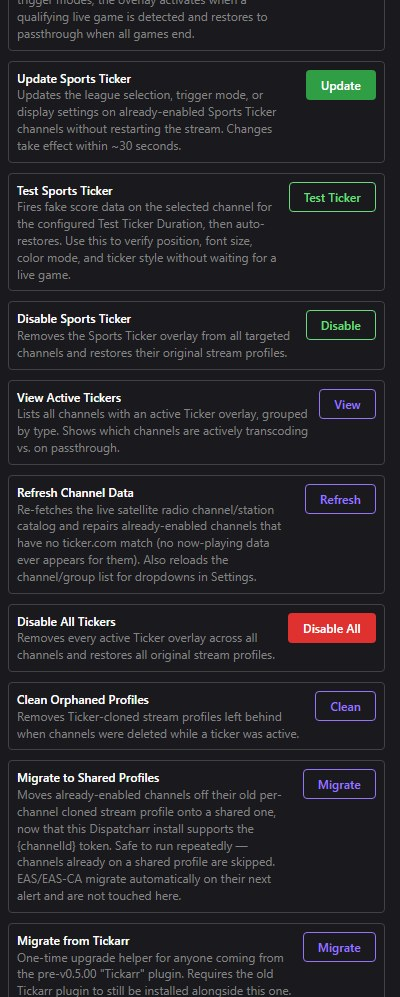
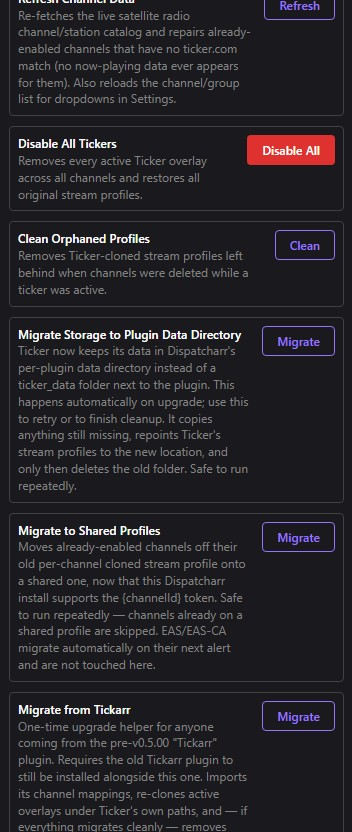
docs: document data_dir storage, one-time restart after update, Migrate Storage action; refresh screenshots
- README/USERGUIDE/FAQ: new 'Updating' and 'Where Ticker keeps its data' sections; the 'no restart needed' passages now note the one exception (0.6.0 -> 0.6.01+)
- USERGUIDE actions table + image alt text: Migrate Storage to Plugin Data Directory
- Recaptured plugin-page.jpg (v0.6.01), actions-manage.jpg (new action card) and shared-profile-detail.jpg (textfile paths now under /data/plugins/_data/ticker)

diff --git a/docs/USERGUIDE.md b/docs/USERGUIDE.md
@@ -28,6 +28,25 @@ Ticker is a plugin for [Dispatcharr](https://github.com/Dispatcharr/Dispatcharr)
 3. Enable the plugin. Dispatcharr loads new plugin code as soon as it is installed or updated, so no restart is needed.
 4. Open the Ticker plugin page and continue with the setup section below for the overlay type you want.
 
+### Updating Ticker
+
+Go to **Plugins → My Plugins → Check for Updates**, then click **Update** on Ticker. Dispatcharr loads the new code as soon as the update finishes, so a restart is normally not needed.
+
+**Exception — updating from 0.6.0 (or earlier) to 0.6.01 or later.** Starting with 0.6.01, Ticker keeps its data in Dispatcharr's per-plugin data directory (see [Where Ticker keeps its data](#where-ticker-keeps-its-data)). Ticker moves your existing data across automatically the first time the new version starts, and channels that already have an overlay keep working while it does. The older version's background thread keeps running until Dispatcharr is restarted, so **restart Dispatcharr once after this update** to finish the move. When it comes back up, Ticker repoints its stream profiles to the new location; a channel that is being watched at that moment restarts once, the same brief restart Ticker already does whenever it changes a channel's stream profile.
+
+### Where Ticker keeps its data
+
+Ticker stores your channel configuration, its caches and the small text files that FFmpeg reads for each overlay in Dispatcharr's **per-plugin data directory**. For a normal install from **Find Plugins** that is `/data/plugins/_data/ticker/`. Dispatcharr keeps this directory when Ticker is updated, so it survives updates.
+
+Before 0.6.01 this data lived in a `ticker_data` folder next to the plugin (`/data/plugins/ticker_data/`). When 0.6.01 first starts it:
+
+1. **Copies** everything from the old folder into the new data directory. Nothing is overwritten and nothing is deleted at this point.
+2. Replaces the old folder with a **link** to the new one (the original is kept as `ticker_data.premigration`), so anything still using the old path keeps working until you restart Dispatcharr.
+3. After the restart, **repoints** Ticker's stream profiles (the `textfile=` paths inside them) to the new location.
+
+You don't need to do anything for this beyond restarting Dispatcharr once. If you want to re-run or clean up the move, use **Actions → Migrate Storage to Plugin Data Directory**. It copies anything still missing, repoints any stream profile that still uses the old path, checks that nothing refers to the old location any more, and only then deletes the old folder (and the link and `.premigration` backup). If a check fails it leaves the old folder alone and tells you why.
+
+> Installs done with **Install Plugin** (uploading a ZIP) rather than from Find Plugins get a data directory named after the plugin folder (for example `_data/ticker-0_6_01`), so a ZIP install of a newer version starts in a new directory. Ticker automatically carries the data over from the previous version's directory.
 
 ### Using the Ticker page
 
@@ -657,7 +676,7 @@ Actions are listed in the left column of the Ticker page in this order: **Now Pl
 <table>
 <tr>
 <td><img src="screenshots/plugin-page.jpg" alt="The Ticker plugin page: actions on the left, collapsible settings sections on the right" width="420"></td>
-<td><img src="screenshots/actions-manage.jpg" alt="Manage actions, including Migrate to Shared Profiles and Check Stream Profile Capabilities" width="420"></td>
+<td><img src="screenshots/actions-manage.jpg" alt="Manage actions, including Migrate Storage, Migrate to Shared Profiles and Check Stream Profile Capabilities" width="420"></td>
 </tr>
 </table>
 
@@ -737,6 +756,7 @@ Each section has its own button color so you can identify which overlay type an 
 | Refresh Channel Data | Re-fetches the live satellite radio channel/station catalog and repairs already-enabled channels that have no ticker.com match (no now-playing data ever appears for them). Also reloads the channel/group list for dropdowns in Settings. |
 | Disable All Tickers | Disables every active Ticker overlay across all channels. |
 | Clean Orphaned Profiles | Removes cloned stream profiles left behind when channels were deleted while a Ticker overlay was active. Also reaps shared profiles once no channel references them anymore. |
+| Migrate Storage to Plugin Data Directory | Finishes or retries the move of Ticker's data from the old `ticker_data` folder to Dispatcharr's per-plugin data directory, repoints Ticker's stream profiles, and removes the old folder once everything checks out. Happens automatically on update; use this to retry or clean up. Safe to run repeatedly. See [Where Ticker keeps its data](#where-ticker-keeps-its-data). |
 | Migrate to Shared Profiles | Moves already-enabled channels off their old per-channel cloned profile onto a shared one. Safe to run repeatedly. See [Upgrading an existing install to shared profiles](#upgrading-an-existing-install-to-shared-profiles). |
 | Migrate from Tickarr | One-time upgrade helper for anyone coming from the pre-v0.5.00 "Tickarr" plugin. Requires Tickarr to still be installed alongside Ticker. See [Upgrading from the old Tickarr plugin](#upgrading-from-the-old-tickarr-plugin). |
 | Check Stream Profile Capabilities | Reports whether this Dispatcharr install supports the `{channelId}` token and therefore which profile mode Ticker is using — shared or per-channel. |
@@ -806,7 +826,7 @@ Run **Actions → Redis Diagnostics**. If Redis is unreachable, On-Demand and sm
 
 ### Plugin changes not taking effect after an update
 
-Click **Reload Plugin** on the Ticker page. Dispatcharr 0.34+ loads new plugin code automatically, so a restart is not needed.
+Click **Reload Plugin** on the Ticker page. Dispatcharr 0.34+ loads new plugin code automatically, so a restart is normally not needed. The exception is updating from 0.6.0 or earlier to 0.6.01+: restart Dispatcharr once to finish moving Ticker's data (see [Where Ticker keeps its data](#where-ticker-keeps-its-data)). If overlays still look stale afterwards, run **Actions → Migrate Storage to Plugin Data Directory**.
 
 ### A channel or group is missing from a list
 

diff --git a/README.md b/README.md
@@ -27,7 +27,7 @@ Dispatcharr 0.34 introduced the plugin format Ticker 0.6 is built on, so 0.6 can
 <table>
 <tr>
 <td><img src="docs/screenshots/plugin-page.jpg" alt="The Ticker plugin page: actions on the left, collapsible settings sections on the right" width="420"></td>
-<td><img src="docs/screenshots/actions-manage.jpg" alt="Manage actions, including Migrate to Shared Profiles" width="420"></td>
+<td><img src="docs/screenshots/actions-manage.jpg" alt="Manage actions, including Migrate Storage and Migrate to Shared Profiles" width="420"></td>
 </tr>
 <tr>
 <td><img src="docs/screenshots/shared-profile-detail.jpg" alt="A shared stream profile using the {channelId} token" width="420"></td>
@@ -141,6 +141,10 @@ Ticker was renamed from **Tickarr** in v0.5.00 — a full rebrand, not a fork, b
 3. Enable the plugin. Dispatcharr loads new plugin code right away, so no restart is needed
 4. Configure your settings on the Ticker plugin page and click **Save**
 5. Run the appropriate enable action for the overlay type you want
+
+### Updating
+
+Use **Plugins → My Plugins → Check for Updates**, then **Update** on Ticker. Dispatcharr loads the new code right away. Starting with **0.6.01**, Ticker keeps its data (channel configuration, caches and the overlay text files) in Dispatcharr's own per-plugin data directory instead of a `ticker_data` folder next to the plugin. If you're updating from 0.6.0 or earlier, Ticker moves your existing data across automatically and running streams keep playing. **Restart Dispatcharr once after the update** to finish the move (Ticker's stream profiles are repointed to the new location when it comes back up). See [Where Ticker keeps its data](docs/USERGUIDE.md#where-ticker-keeps-its-data) in the User Guide.
 
 ---
 

diff --git a/docs/FAQ.md b/docs/FAQ.md
@@ -18,7 +18,9 @@ No. Updating keeps your saved settings and any tickers that are already running.
 
 **Q: Do I need to restart Dispatcharr after installing or updating Ticker?**
 
-No. Dispatcharr 0.34 and later loads new plugin code as soon as it is installed or updated. If an overlay seems to be running old behavior after an update, use the **Reload Plugin** button on the Ticker page.
+Usually not. Dispatcharr 0.34 and later loads new plugin code as soon as it is installed or updated. If an overlay seems to be running old behavior after an update, use the **Reload Plugin** button on the Ticker page.
+
+**One exception: updating from Ticker 0.6.0 (or earlier) to 0.6.01 or later.** That update moves Ticker's data into Dispatcharr's per-plugin data directory. It happens automatically and running streams keep playing, but the last step (pointing Ticker's stream profiles at the new location) only completes once Dispatcharr is restarted, because the older version's background thread keeps running until then. Restart Dispatcharr once after that update. See [Where Ticker keeps its data](USERGUIDE.md#where-ticker-keeps-its-data).
 
 ---
 
